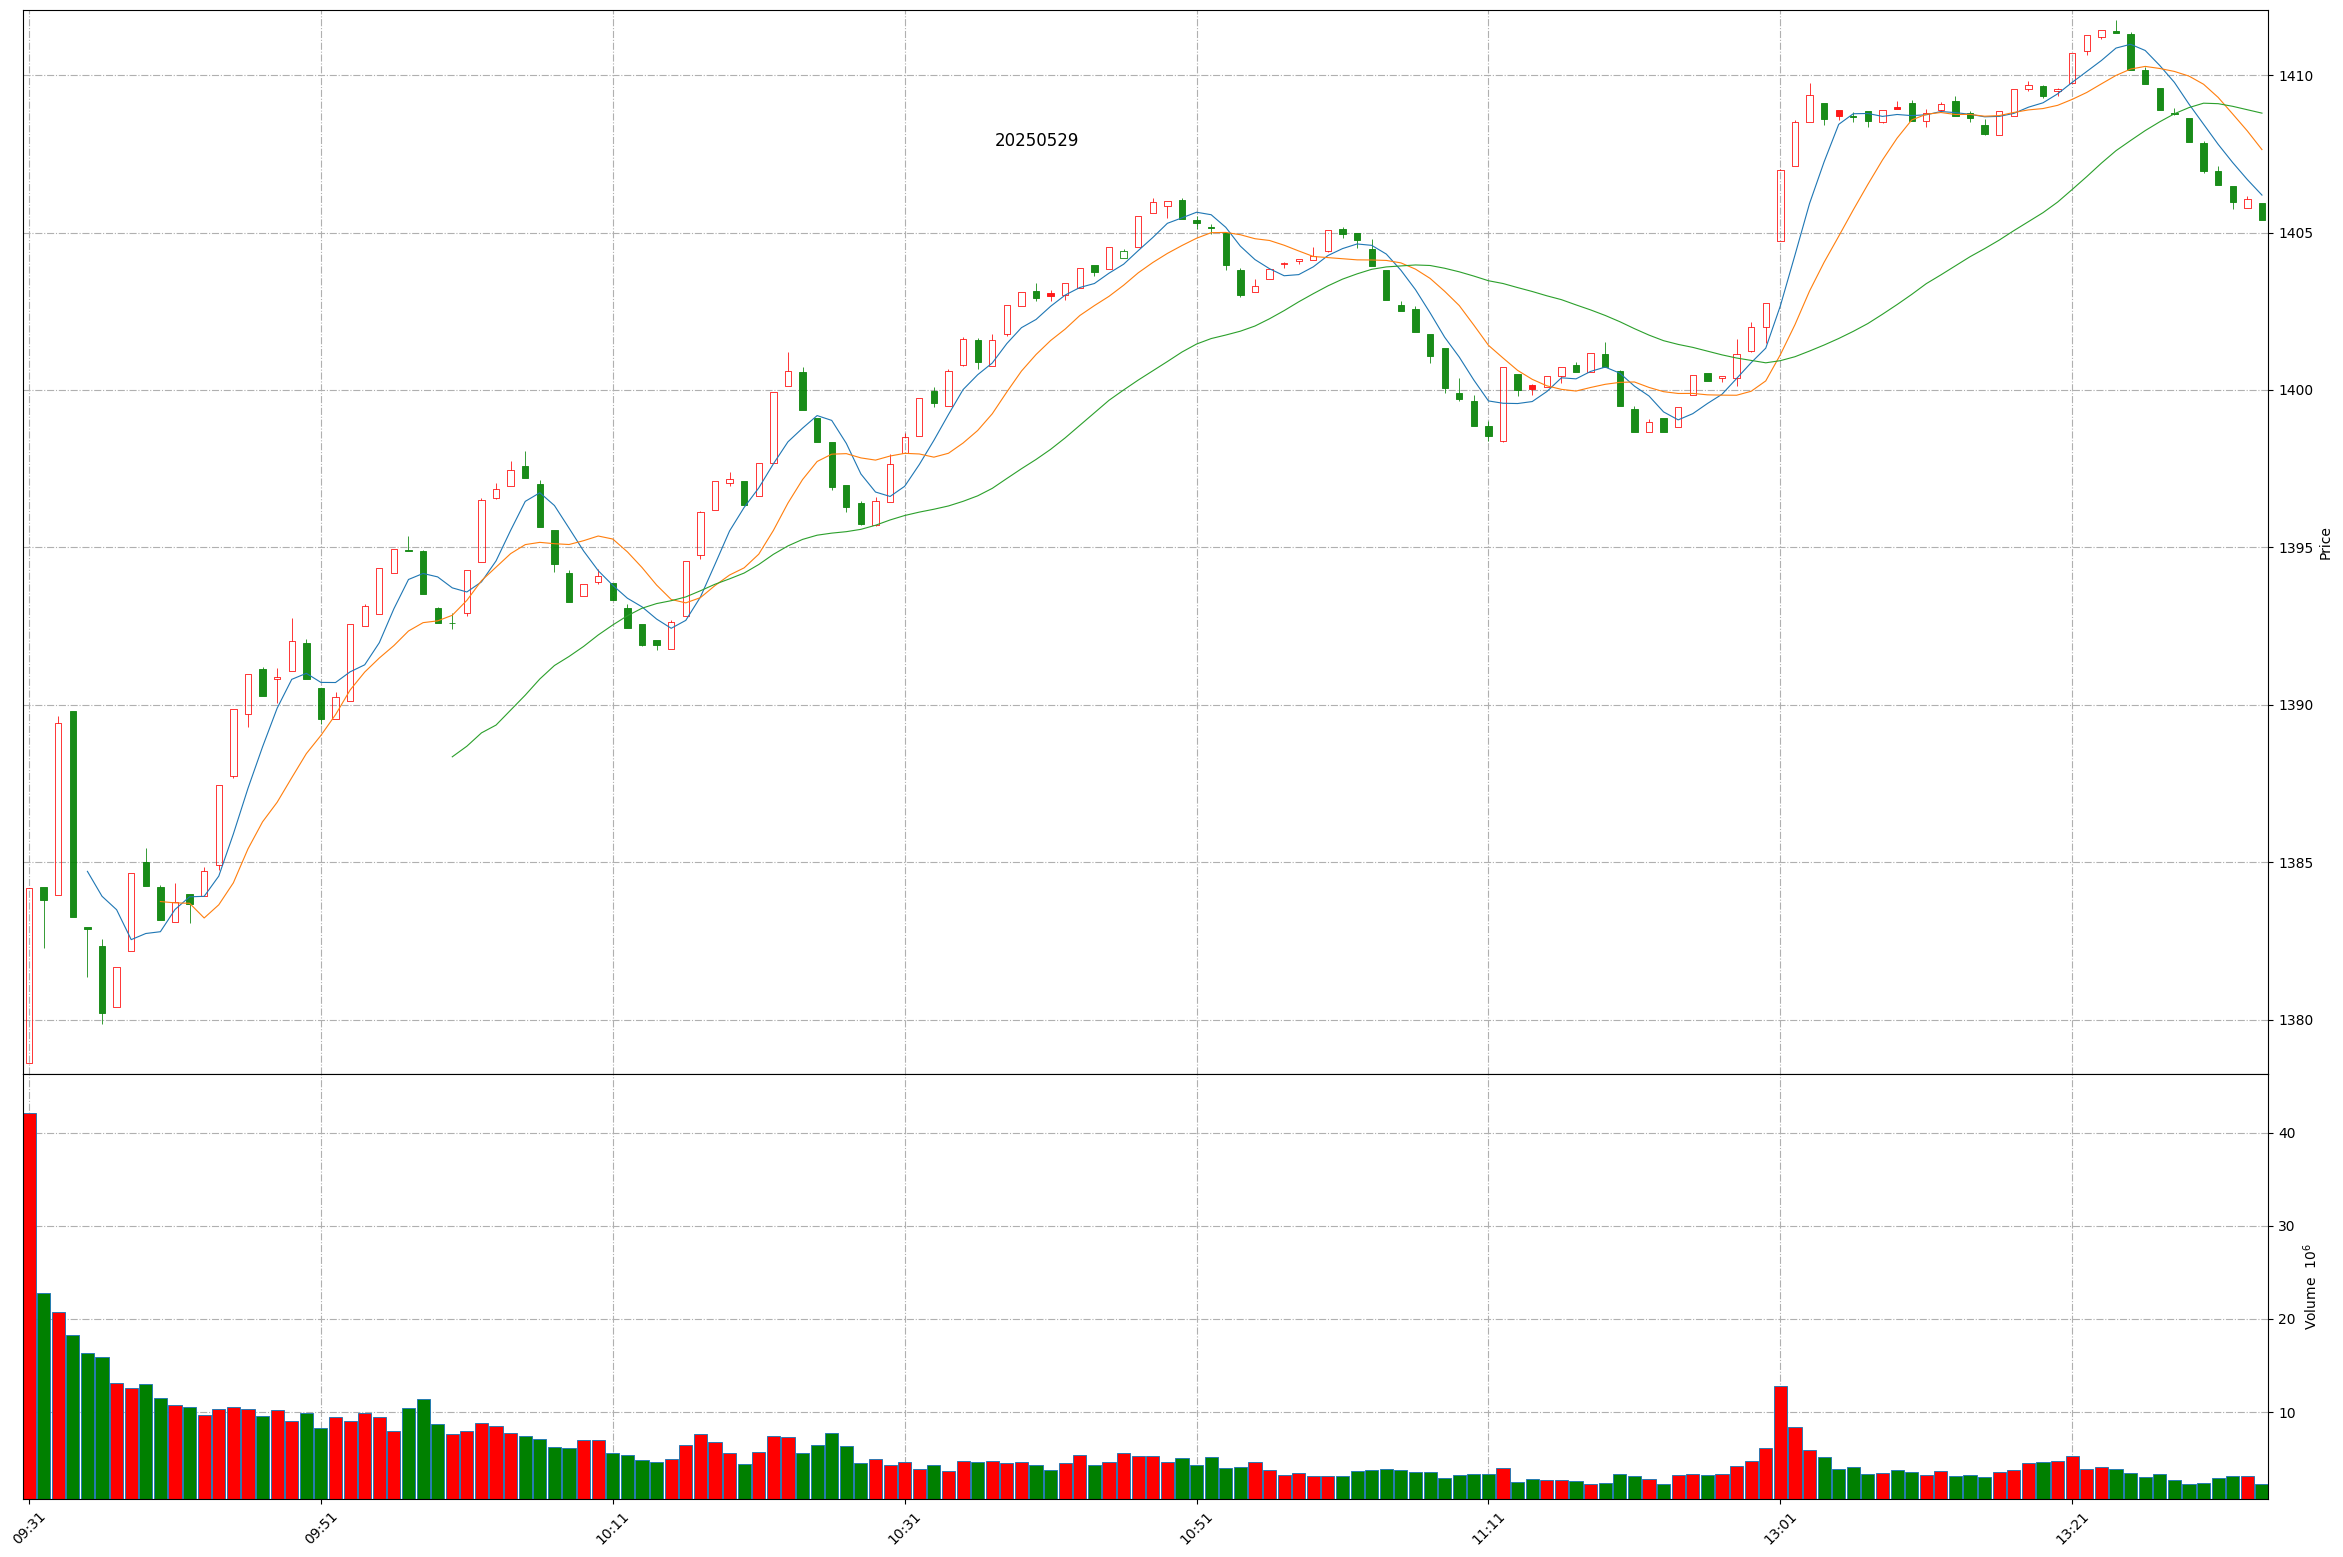
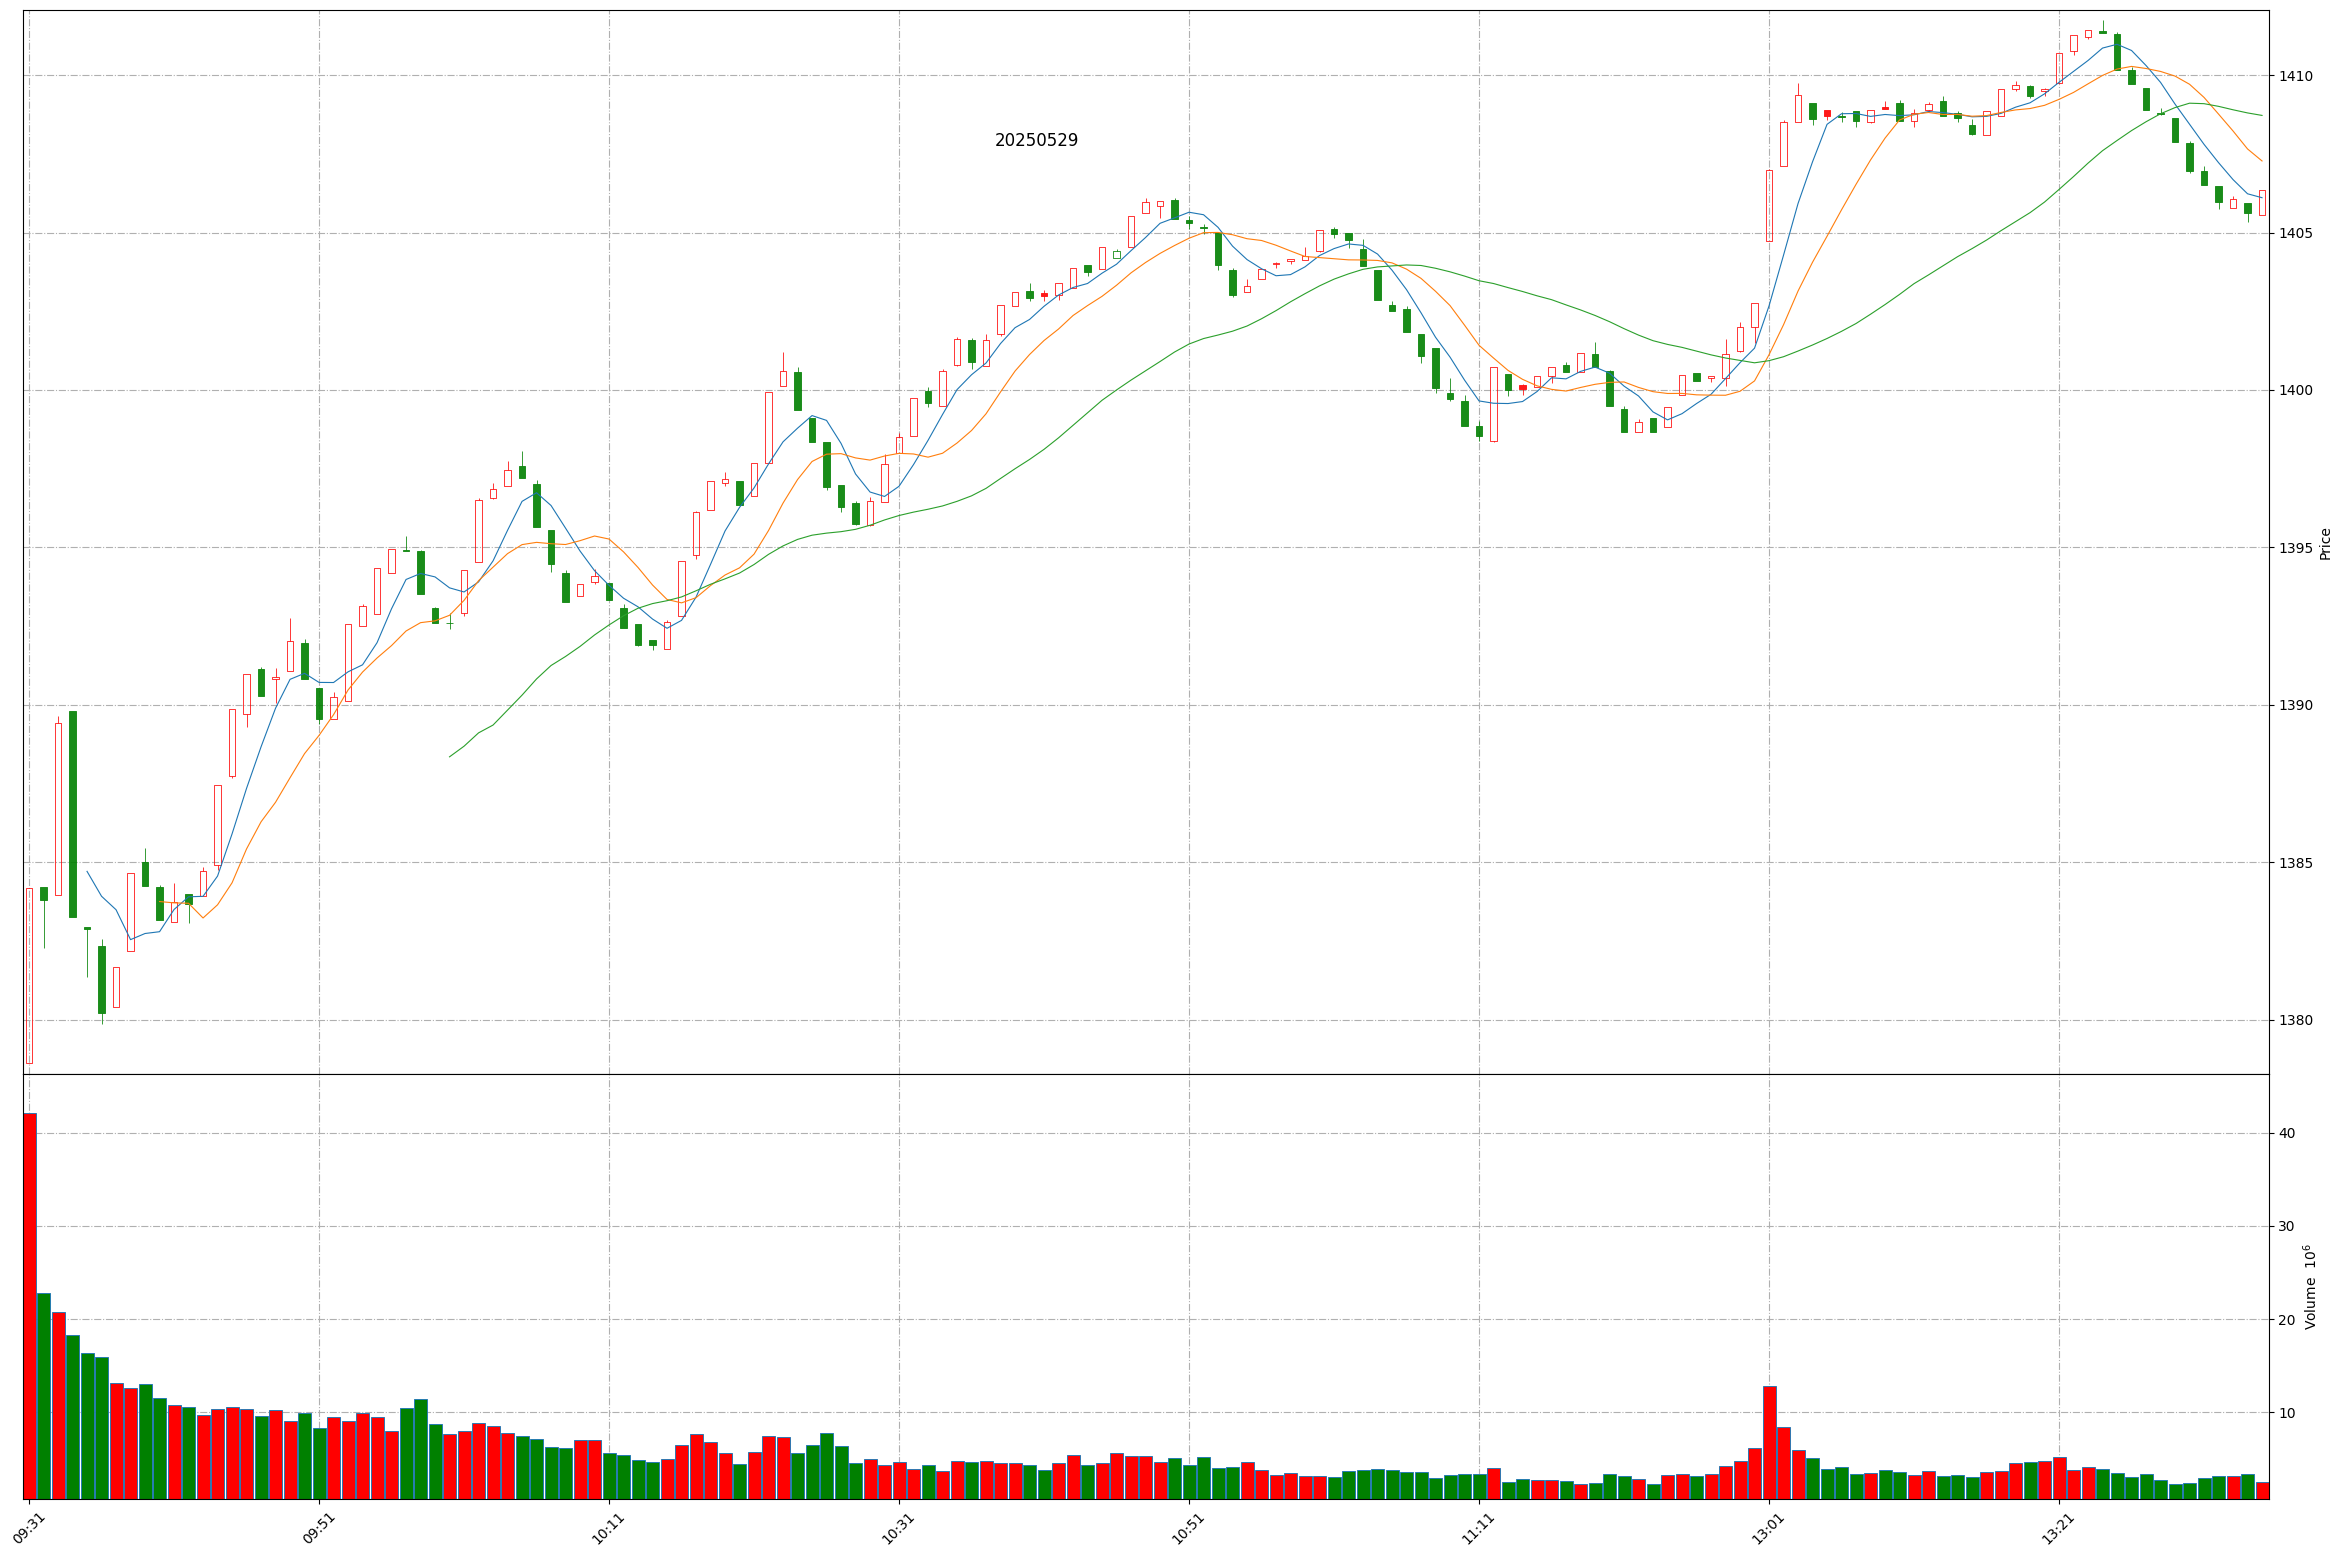
Github action update at 2025-05-29 13:35:06.

diff --git a/README.md b/README.md
@@ -1,11 +1,11 @@
 
 # Daily-A-share-market-quotes 每日 A 股指数（5min 更新）- 20250529
 
-### 上证指数 20250529 13:33
+### 上证指数 20250529 13:35
 ![](./fig/2025/5/20250529-sh000001.png)
 
-### 深证成指 20250529 13:33
+### 深证成指 20250529 13:35
 ![](./fig/2025/5/20250529-sz399001.png)
 
-### 北证50 20250529 13:33
+### 北证50 20250529 13:35
 ![](./fig/2025/5/20250529-bj899050.png)
